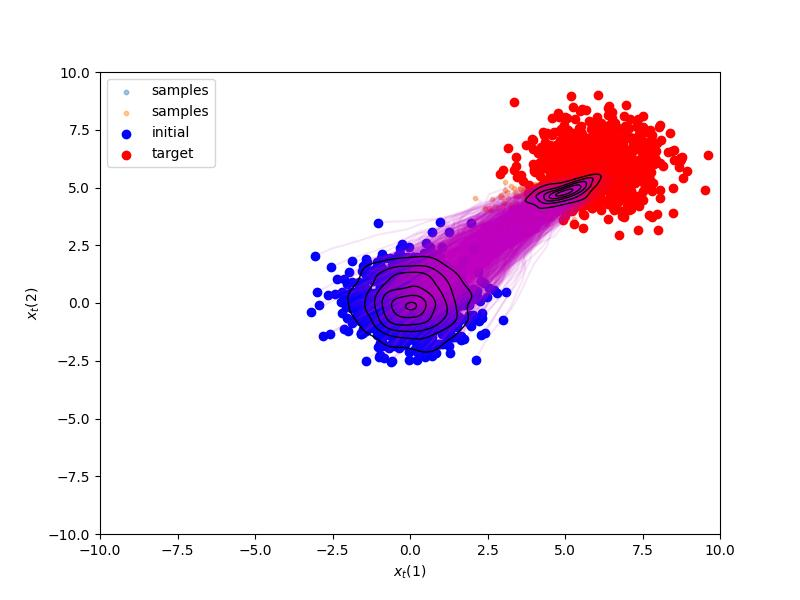
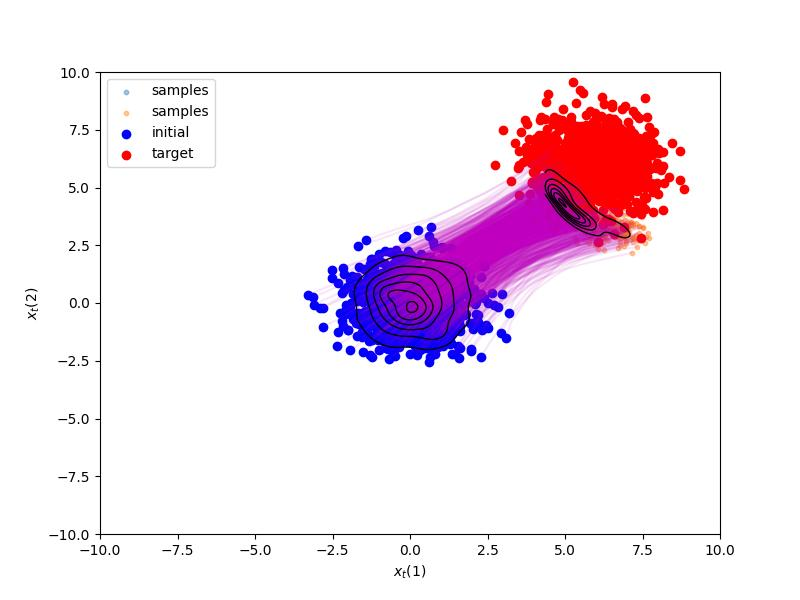
MLP works

Changed region(s): [[0.375, 0.12, 0.9062, 0.63]]

diff --git a/main2.py b/main2.py
@@ -10,18 +10,20 @@ from plot_results import plot_trajectories, plot_initial_target_dis_2d, plot_los
 '''
 Flow matching solver for stochatic averaged systems
 '''
+
+
 class FlowMatchingSolver:
     def __init__(self,
                  A_fn,
                  B_fn,
-                 mu0,       # initial distribution
-                 muf,       # target distribution
-                 nx,        # dimension of state
-                 nu,        # dimension of control input
+                 mu0,  # initial distribution
+                 muf,  # target distribution
+                 nx,  # dimension of state
+                 nu,  # dimension of control input
                  epsilon=1e-2,
                  tf=1.0,
-                 time_steps=100, # time steps for [0, tf]
-                 theta_samples=50, # number of samples for the perturbed parameter theta
+                 time_steps=100,  # time steps for [0, tf]
+                 theta_samples=50,  # number of samples for the perturbed parameter theta
                  device='cpu'):  # device can be gpu
         self.A_fn = A_fn
         self.B_fn = B_fn
@@ -30,13 +32,13 @@ class FlowMatchingSolver:
         self.nx = nx
         self.nu = nu
         self.epsilon = epsilon
-        self.tf = tf   # terminal time
+        self.tf = tf  # terminal time
         self.Nt = time_steps
         self.dt = tf / time_steps
-        self.t_grid = torch.linspace(0, tf, time_steps+1, device=device)
+        self.t_grid = torch.linspace(0, tf, time_steps + 1, device=device)
         self.device = device
-        #self.thetas = [torch.rand(()).item() for _ in range(theta_samples)]
-        self.thetas = torch.linspace(0,1,theta_samples)
+        # self.thetas = [torch.rand(()).item() for _ in range(theta_samples)]
+        self.thetas = torch.linspace(0, 1, theta_samples)
 
     def compute_Phi(self, t, tau):
         '''
@@ -44,7 +46,7 @@ class FlowMatchingSolver:
         '''
         A = torch.stack([self.A_fn(theta) for theta in self.thetas])
         B = torch.stack([self.B_fn(theta) for theta in self.thetas])
-        Phi = torch.matrix_exp(A*(t-tau))@B
+        Phi = torch.matrix_exp(A * (t - tau)) @ B
         return Phi.mean(dim=0)
 
     def compute_G(self, t):
@@ -66,11 +68,11 @@ class FlowMatchingSolver:
     def compute_control(self, x0, xf):
         # returns u_z trajectories: shape [N, Nt+1, nu]
         N, _ = x0.shape
-        u_z = torch.zeros(N, self.Nt+1, self.nu, device=self.device)
-        x_z = torch.zeros(N, self.Nt+1, self.nx, device=self.device)
+        u_z = torch.zeros(N, self.Nt + 1, self.nu, device=self.device)
+        x_z = torch.zeros(N, self.Nt + 1, self.nx, device=self.device)
         dW = torch.randn(N, self.Nt, nu, device=self.device) * math.sqrt(self.dt)
-        feature_noise = torch.zeros(N, self.Nt+1, self.nx, device=self.device)
-        for k, t in enumerate(self.t_grid): # for every time step
+        feature_noise = torch.zeros(N, self.Nt + 1, self.nx, device=self.device)
+        for k, t in enumerate(self.t_grid):  # for every time step
             Phi_tf_t = self.compute_Phi(self.tf, t)
             G_tf_0 = self.compute_G(0)
             Ginv = torch.linalg.inv(G_tf_0 + 1e-6 * torch.eye(nu, device=self.device))
@@ -79,36 +81,36 @@ class FlowMatchingSolver:
             for m, tau in enumerate(self.t_grid[:k]):
                 Phi_tf_tau = self.compute_Phi(self.tf, tau)
                 G_tf_tau = self.compute_G(tau)
-                G_tf_tau_inv = torch.linalg.inv(G_tf_tau+1e-6*torch.eye(nu, device=self.device))
+                G_tf_tau_inv = torch.linalg.inv(G_tf_tau + 1e-6 * torch.eye(nu, device=self.device))
                 integrand = Phi_tf_t.T @ G_tf_tau_inv @ Phi_tf_tau
-                integral_term += dW[:, m]@integrand
+                integral_term += dW[:, m] @ integrand
                 Phi_t_tau = self.compute_Phi(t, tau)
-                Phi_t_tau_intergrand += dW[:, m]@Phi_t_tau.T*math.sqrt(self.epsilon)
+                Phi_t_tau_intergrand += dW[:, m] @ Phi_t_tau.T * math.sqrt(self.epsilon)
             feature_noise[:, k] = Phi_t_tau_intergrand
             term1 = -math.sqrt(self.epsilon) * integral_term
             M_t = self.M(self.tf)
-            term2 = (xf - x0.matmul(M_t.T))@Ginv.T@Phi_tf_t
+            term2 = (xf - x0.matmul(M_t.T)) @ Ginv.T @ Phi_tf_t
             u_z[:, k] = term1 + term2
             M_t = self.M(t)
-            u = u_z[:,k]
+            u = u_z[:, k]
             control_integral_term = torch.zeros([N, nx], device=self.device)
             for m, tau in enumerate(self.t_grid[:k]):
                 Phi_t_tau = self.compute_Phi(t, tau)
                 control_integral_term += (Phi_t_tau @ (u.T)).T * self.dt
-            x_z[:, k] = (M_t @ x0.T).T + control_integral_term + feature_noise[:,k]
+            x_z[:, k] = (M_t @ x0.T).T + control_integral_term + feature_noise[:, k]
 
         return u_z, feature_noise, x_z
-        
+
     def M(self, t):
-        M_integrand = torch.stack([self.A_fn(theta)*t for theta in self.thetas])
+        M_integrand = torch.stack([self.A_fn(theta) * t for theta in self.thetas])
         M_integrand = torch.matrix_exp(M_integrand)
         return M_integrand.mean(dim=0)
-    
-    def build_dataset(self, x0, u_z, noise):
+
+    def build_dataset(self, x0, u_z,noise):
         N, T, nu = u_z.shape
         #x0 = x0.unsqueeze(1).repeat(1, T, 1)
-        t_all = self.t_grid.view(1, T, 1).repeat(N,1,1)
-        X = torch.cat([x0, t_all,noise], dim=2)
+        t_all = self.t_grid.view(1, T, 1).repeat(N, 1, 1)
+        X = torch.cat([x0, t_all], dim=2)
         return X, u_z
 
     class LSTMRegressor(nn.Module):
@@ -120,6 +122,7 @@ class FlowMatchingSolver:
         def forward(self, x):
             out, _ = self.lstm(x)
             return self.fc(out)
+        
 
     class MLPRegressor(nn.Module):
         def __init__(self, input_dim, hidden_dim, output_dim, num_layers=2):
@@ -135,7 +138,7 @@ class FlowMatchingSolver:
 
         def forward(self, x):
             u = self.net(x)
-            return u.squeeze(1)
+            return u
 
     def train_control_law(self, X, Y,
                           hidden_dim=128,
@@ -168,66 +171,68 @@ class FlowMatchingSolver:
                 loss.backward()
                 optimizer.step()
                 total_loss += loss.item() * xb.size(0)
-            #print(f"Epoch {epoch+1}/{epochs}, Average loss: {total_loss/len(dataset):.6f}")
-            epoch_loss.append([epoch, total_loss/len(dataset)])
+            # print(f"Epoch {epoch+1}/{epochs}, Average loss: {total_loss/len(dataset):.6f}")
+            epoch_loss.append([epoch, total_loss / len(dataset)])
         self.control_model = model
         return epoch_loss
 
     def simulate_x(self, x0):
         N, nx = x0.shape
         x = x0.clone()
-        traj = torch.zeros(N, self.Nt+1, nx, device=self.device)
+        traj = torch.zeros(N, self.Nt + 1, nx, device=self.device)
         traj[:, 0, :] = x
-        dW = torch.randn(N, self.Nt, self.nu, device=self.device)*math.sqrt(self.dt)
+        dW = torch.randn(N, self.Nt+1, self.nu, device=self.device) * math.sqrt(self.dt)
+        u_all = torch.zeros(N, self.Nt+1, nu, device=self.device)
+        u = torch.zeros(N, nu, device=self.device)
         for k, t in enumerate(self.t_grid):
             noise_integral_term = torch.zeros([N, nx], device=self.device)
-            for m, tau in enumerate(self.t_grid[:k]):
-                Phi_t_tau = self.compute_Phi(t, tau)
-                noise_integral_term += (Phi_t_tau @ dW[:, m].T).T
-            noise_term = math.sqrt(self.epsilon)*noise_integral_term
-            features = torch.cat([x, t.unsqueeze(0).repeat(N,1), noise_term], dim=1)
-            u = self.control_model(features.unsqueeze(1)).squeeze(1)
-            M_t = self.M(t)
             control_integral_term = torch.zeros([N, nx], device=self.device)
             for m, tau in enumerate(self.t_grid[:k]):
                 Phi_t_tau = self.compute_Phi(t, tau)
-                control_integral_term += (Phi_t_tau@(u.T)).T*self.dt
-            x = (M_t@x0.T).T + control_integral_term + noise_term
+                noise_integral_term += (Phi_t_tau @ dW[:, m].T).T
+                features = torch.cat([x, tau.unsqueeze(0).repeat(N, 1)], dim=1)
+                u = self.control_model(features.unsqueeze(1)).squeeze(1)
+                control_integral_term += (Phi_t_tau @ (u.T)).T * self.dt
+            noise_term = math.sqrt(self.epsilon) * noise_integral_term
+            u_all[:,k,:] = u
+            M_t = self.M(t)
+            x = (M_t @ x0.T).T + control_integral_term + noise_term
             traj[:, k, :] = x
-        return traj, self.t_grid
+        return traj, u_all, self.t_grid
+
 
 if __name__ == "__main__":
     device = torch.device('cuda' if torch.cuda.is_available else 'cpu')
-    sys_name = 0  # test different systems, 0: example 1, 1: example 2
+    sys_name = 1  # test different systems, 0: example 1, 1: example 2
     if sys_name == 0:
         from Sys1 import sys, nx, nu, A_fn, B_fn
     else:
         from Sys2 import sys, nx, nu, A_fn, B_fn
 
-    mu0 = MultivariateNormal(torch.zeros(nx), torch.eye(nx)) #initial distribution
-    muf = MultivariateNormal(torch.ones(nx)*6, torch.eye(nx)) # target distribution
+    mu0 = MultivariateNormal(torch.zeros(nx), torch.eye(nx))  # initial distribution
+    muf = MultivariateNormal(torch.ones(nx) * 6, torch.eye(nx))  # target distribution
 
     print(f"using device {device}")
     # algorithm part
     print("Initialize solver")
-    solver = FlowMatchingSolver(A_fn, B_fn, mu0, muf, nx, nu, epsilon=0.01, tf=1.0, time_steps=1000, device=device)
+    solver = FlowMatchingSolver(A_fn, B_fn, mu0, muf, nx, nu, epsilon=0.01, tf=1.0, time_steps=10, device=device)
     print("Sample from initial and target distribution")
-    x0_samples, xf_samples = solver.sample_pairs(N=2000)
+    x0_samples, xf_samples = solver.sample_pairs(N=1000)
     print("Compute the control")
-    u_z, noise, GT_traj = solver.compute_control(x0_samples, xf_samples)
+    u, noise, GT_traj = solver.compute_control(x0_samples, xf_samples)
     print("Prepare for the data set")
-    X, Y = solver.build_dataset(GT_traj, u_z, noise)
+    X, Y = solver.build_dataset(GT_traj, u, noise)
     print("Start LSTM training")
-    loss = solver.train_control_law(X, Y, model_type='LSTM') # change it to MLP if you want to use MLP
+    loss = solver.train_control_law(X, Y, model_type='MLP')  # change it to MLP if you want to use MLP
     print("Test and get the trajectory with learned control")
-    traj, t_grid = solver.simulate_x(x0_samples)
+    traj, u_z, t_grid = solver.simulate_x(x0_samples)
     print("Simulation done. Start to plot graph")
     save_dir = f'./results/{sys}/'
-    plot_trajectories(traj, t_grid, save_dir)
+    plot_trajectories(traj,u,u_z, t_grid, save_dir)
     if sys == 'Example2':
-        plot_initial_target_dis_2d(x0_samples, xf_samples, traj,t_grid, save_dir)
-    elif sys== 'Example1':
-        plot_initial_target_dis_1d(x0_samples, xf_samples, traj, save_dir)
+        plot_initial_target_dis_2d(x0_samples, xf_samples, traj, t_grid, save_dir)
+    elif sys == 'Example1':
+        plot_initial_target_dis_1d(x0_samples, xf_samples, GT_traj, traj, save_dir)
     plot_loss(loss, save_dir)
     print('Figure saved in the results folder')
 

diff --git a/plot_results.py b/plot_results.py
@@ -1,18 +1,31 @@
 import numpy as np
 import matplotlib.pyplot as plt
 import torch
+import torch.nn as nn
 import os
 from scipy.stats import gaussian_kde
 
 
-def plot_trajectories(traj, t_grid, log_dir):
+def plot_trajectories(traj, u, u_z, t_grid, log_dir):
     os.makedirs(log_dir, exist_ok=True)
-
+    _,T,control_dim = u.shape
+    mse_loss = nn.MSELoss()
+    loss_list = []
+    for j in range(T):
+        loss = mse_loss(u[:,j, :], u_z[:,j, :])
+        loss_list.append(loss.detach().cpu().numpy())
+        
+    plt.figure(figsize=(8,6))
+    plt.plot(loss_list)
+    plt.savefig(log_dir+f'u_distance.jpg')
     if torch.is_tensor(traj):
         traj = traj.detach().cpu().numpy()
+        u = u.detach().cpu().numpy()
+        u_z = u_z.detach().cpu().numpy()
         t_grid = t_grid.detach().cpu().numpy()
 
     n_samples, _, state_dim = traj.shape
+    _,T,control_dim = u.shape
     for dim in range(state_dim):
         plt.figure(figsize=(8,6))
         for sample in range(n_samples):
@@ -20,7 +33,19 @@ def plot_trajectories(traj, t_grid, log_dir):
             plt.xlabel(r'$t$')
             plt.ylabel(fr'$x_{dim}$')
             plt.savefig(log_dir+f'x{dim}.jpg')
+    '''
+    for dim in range(control_dim):
+        plt.figure(figsize=(8,6))
+        for sample in range(n_samples):
+            plt.plot(t_grid, u[sample,:, dim], label='real u')
+            plt.plot(t_grid, u_z[sample,:, dim], label='predicted u')
+            plt.legend()
+            plt.xlabel(r'$t$')
+            plt.ylabel(fr'$u_{dim}$')
+            plt.savefig(log_dir+f'u{dim}.jpg')
+    '''
 
+    
 
 def plot_initial_target_dis_2d(x0, xf, traj,t_grid, log_dir):
     os.makedirs(log_dir, exist_ok=True)
@@ -57,12 +82,13 @@ def plot_initial_target_dis_2d(x0, xf, traj,t_grid, log_dir):
     plt.ylabel("x2")
     plt.savefig(log_dir+'heatmap.jpg')
 
-def plot_initial_target_dis_1d(x0, xf, traj, log_dir):
+def plot_initial_target_dis_1d(x0, xf, GT_traj, traj, log_dir):
     os.makedirs(log_dir, exist_ok=True)
     if torch.is_tensor(traj):
         x0 =x0.detach().cpu().numpy()
         xf = xf.detach().cpu().numpy()
         traj = traj.detach().cpu().numpy()
+        GT_traj = GT_traj.detach().cpu().numpy()
     N, _ = x0.shape
     plt.figure(figsize=(8,6))
     for i in range(N):
@@ -71,10 +97,14 @@ def plot_initial_target_dis_1d(x0, xf, traj, log_dir):
     plt.plot(xf, np.zeros_like(xf), 'ro', markersize=2, label='target')
     x0_pred = traj[:,0,0]
     xf_pred = traj[:,-1,0]
+    GT_x0 = GT_traj[:,0,0]
+    GT_xf = GT_traj[:,-1,0]
     kde0 = gaussian_kde(x0_pred)
     kdef = gaussian_kde(xf_pred)
     plt.hist(x0_pred, bins=30, density=True, alpha=0.4, label='initial')
     plt.hist(xf_pred, bins=30, density=True, alpha=0.4, label='target')
+    plt.hist(GT_x0, bins=30, density=True, alpha=0.4, label='initial with real u')
+    plt.hist(GT_xf, bins=30, density=True, alpha=0.4, label='target with real u')
     plt.hist(x0, bins=30, density=True, alpha=0.4, label='GT initial')
     plt.hist(xf, bins=30, density=True, alpha=0.4, label='GT target')
     xs = np.linspace(x0_pred.min(), x0_pred.max(), 200)

diff --git a/README.md b/README.md
@@ -2,6 +2,8 @@ Packages:
 * torch
 * matplotlib.pyplot
 * numpy
+* math
+* scipy
 
 ```commandline
 conda activate tf
